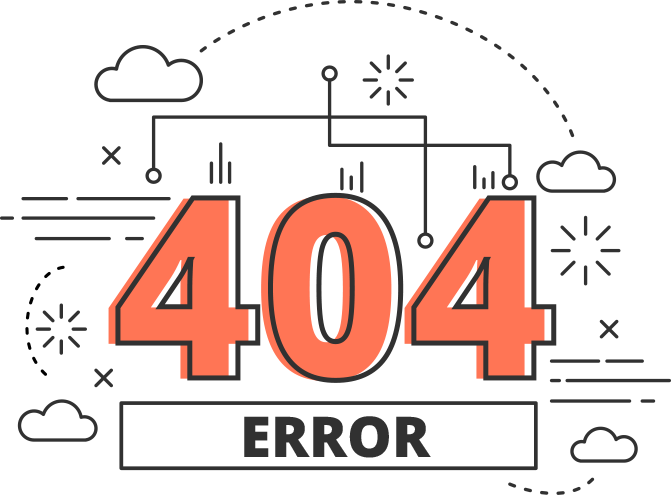
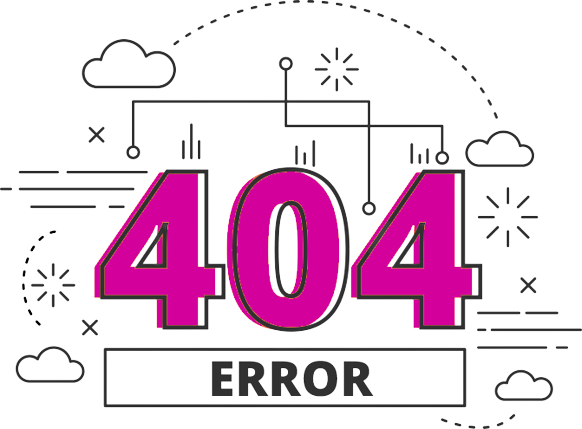
error png

diff --git a/src/app/security/login/login.service.ts b/src/app/security/login/login.service.ts
@@ -20,9 +20,11 @@ export class LoginService implements CanActivate {
     }
     this.userService.getUserByToken().subscribe(response => {
       const currentUrl = this.router.url;
-      console.log('the current url : ' + currentUrl)
-      if (response.user[0].admin == 0 && currentUrl=='/admin') {
+      if(currentUrl ==''){
         this.router.navigateByUrl('/home')
+      }
+      if (response.user[0].admin == 0 && currentUrl=='/admin') {
+        this.router.navigateByUrl('/home/404')
       }
       // } else if (response.user[0].admin == 0) {
       //   this.router.navigateByUrl('/home')
@@ -36,13 +38,13 @@ export class LoginService implements CanActivate {
   public login(token: string) {
     localStorage.setItem('token', token);
 
-    // this.userService.getUserByToken().subscribe(response => {
-    //   if (response.user[0].admin == 1) {
-    //     this.router.navigateByUrl('/admin')
-    //   } else {
-    //     this.router.navigateByUrl('/home')
-    //   }
-    // })
+    this.userService.getUserByToken().subscribe(response => {
+      if (response.user[0].admin == 1) {
+        this.router.navigateByUrl('/admin')
+      } else {
+        this.router.navigateByUrl('/home')
+      }
+    })
 
   }
 }

diff --git a/src/app/home/pages/page-not-found/page-not-found.component.html b/src/app/home/pages/page-not-found/page-not-found.component.html
@@ -1,1 +1,26 @@
-<p>page-not-found works!</p>
+<div class="title-bar">
+  <div class="container">
+    <div class="row">
+      <div class="col-lg-12">
+        <ol class="title-bar-text">
+          <li class="breadcrumb-item"><a routerLink="/home" >Accueil</a></li>
+          <li class="breadcrumb-item active" aria-current="page">Error 404</li>
+        </ol>
+      </div>
+    </div>
+  </div>
+</div>
+
+<main class="discussion-mp">
+  <div class="main-section">
+    <div class="container">
+      <div class="row justify-content-md-center">
+        <div class="col-lg-12 col-md-12">
+          <div class="errror-404">
+            <img src="../../assets/images/error.png" alt="">
+          </div>
+        </div>
+      </div>
+    </div>
+  </div>
+</main>

diff --git a/src/app/home/home-routing.module.ts b/src/app/home/home-routing.module.ts
@@ -10,6 +10,7 @@ import {NewEventComponent} from "./pages/event/new-event/new-event.component";
 import {DetailsEventComponent} from "./pages/event/details-event/details-event.component";
 import {ExploreComponent} from "./pages/explore/explore.component";
 import {ResultSearchComponent} from "./pages/result-search/result-search.component";
+import {PageNotFoundComponent} from "./pages/page-not-found/page-not-found.component";
 
 const routes: Routes = [
 
@@ -26,6 +27,7 @@ const routes: Routes = [
       {path: 'settings', component: SettingsComponent},
       {path: 'explore', component: ExploreComponent},
       {path: 'res/:search', component: ResultSearchComponent},
+      {path: '404', component: PageNotFoundComponent},
     ]
   }
 ];

diff --git a/src/app/home/pages/messages/messages.component.ts b/src/app/home/pages/messages/messages.component.ts
@@ -30,7 +30,7 @@ export class MessagesComponent implements OnInit {
   ngOnInit(): void {
     this.spinner.show();
     this.getData();
-    console.log('this destinataire : ' + this.destinataire);
+    // console.log('this destinataire : ' + this.destinataire);
 
     // setInterval(() => {
     //   if (this.destinataire) {
@@ -75,7 +75,7 @@ export class MessagesComponent implements OnInit {
 
   onPersonMessageFilterChange() {
     this.showSearchPerson = !(!this.personMessageFilter);
-    console.log("value of show person : " + this.showSearchPerson)
+    // console.log("value of show person : " + this.showSearchPerson)
   }
 
   clearFilter() {

diff --git a/src/app/login/login.component.ts b/src/app/login/login.component.ts
@@ -28,10 +28,10 @@ export class LoginComponent implements OnInit {
   }
 
   login() {
-    console.log(this.form.value);
+    // console.log(this.form.value);
 
     if (this.form.valid) {
-      console.log('click');
+      // console.log('click');
       this.serviceUser.login(this.form.value).subscribe({
         next: (res: any) => {
           this.loginService.login(res.token)

diff --git a/src/app/inscription/inscription.component.ts b/src/app/inscription/inscription.component.ts
@@ -51,7 +51,7 @@ export class InscriptionComponent implements OnInit {
   }
   getListCountry(){
     this.serviceCountry.getCountries().subscribe(res =>{
-      console.log(res)
+      // console.log(res)
     })
   }
 

diff --git a/src/app/home/pages/explore/explore.component.html b/src/app/home/pages/explore/explore.component.html
@@ -153,4 +153,4 @@
   </div>
 </div>
 
- 
+
